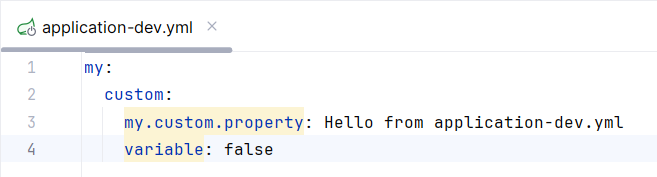
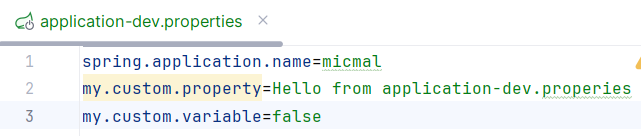
Update Zjazd_01

diff --git a/Zjazd_01/micmal/src/main/java/pl/pjatk/micmal/ProfileComponent.java b/Zjazd_01/micmal/src/main/java/pl/pjatk/micmal/ProfileComponent.java
@@ -1,0 +1,19 @@
+package pl.pjatk.micmal;
+
+import org.springframework.beans.factory.annotation.Value;
+import org.springframework.stereotype.Component;
+
+@Component
+public class ProfileComponent {
+
+    @Value("${my.custom.variable:false}")
+    private boolean myCustomVariable;
+
+    public ProfileComponent() {
+        if(myCustomVariable) {
+            System.out.println("Profile bean has been created.");
+        } else {
+            System.out.println("Profile bean has not been created.");
+        }
+    }
+}

diff --git a/Zadania/Zjazd_01.md b/Zadania/Zjazd_01.md
@@ -84,15 +84,16 @@ Następnie poprzez wykorzystanie metody `.getBean(String name, Class componentCl
 ## Praca domowa
 1. W pliku `application.properties` (lub `application.yml`) stwórz własną zmienną która domyślnie przyjmie wartość `false`. 
 Utwórz dodatkowo profil, który zmieni wartość tej zmiennej na `true`.
-> [!NOTE]
 
+> [!NOTE] 
+> 
 > Można zdefiniować różne wartości dla własnej zmiennej `my.custom.variable` w różnych profilach Spring Boot. 
 > Profil to zestaw ustawień, które mogą być aktywowane w różnych środowiskach. 
 > Można utworzyć pliki `application-{profile}.yml` dla różnych profili, gdzie `{profile}` to nazwa profilu.
 
 > Na przykład, można mieć profil `dev` i `prod`, które mają różne wartości `my.custom.variable`. 
 > W takim przypadku, tworzy się pliki `application-dev.yml` i `application-prod.yml` w katalogu `resources` projektu.
-
+ 
 Plik `application-dev.yml`:
 ```yaml
 my:
